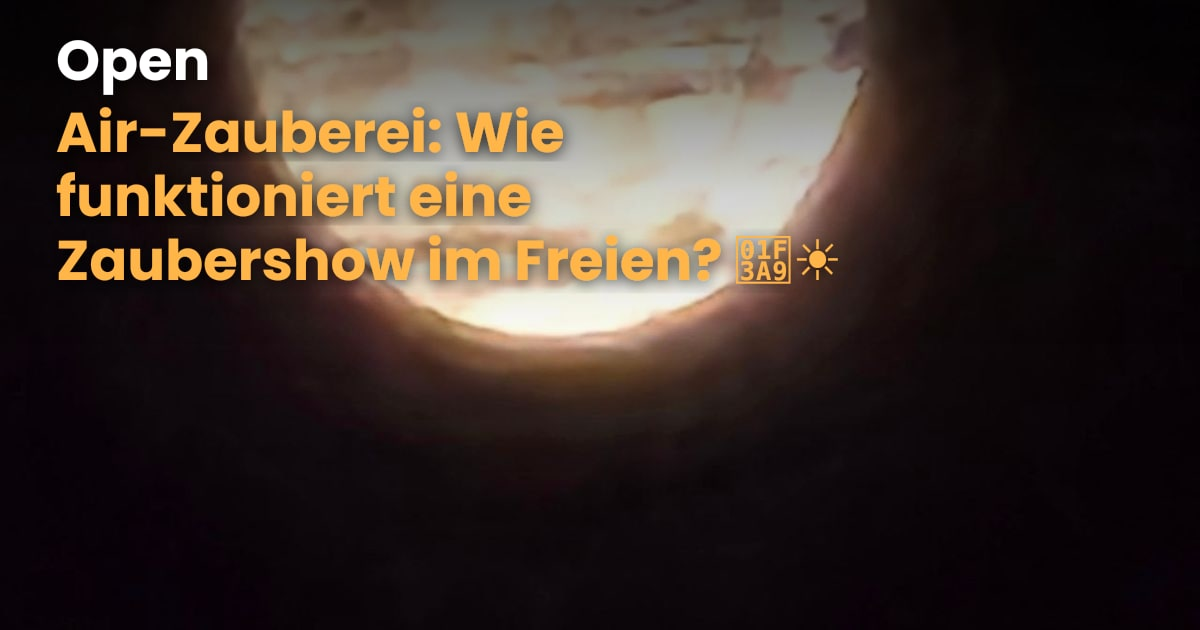
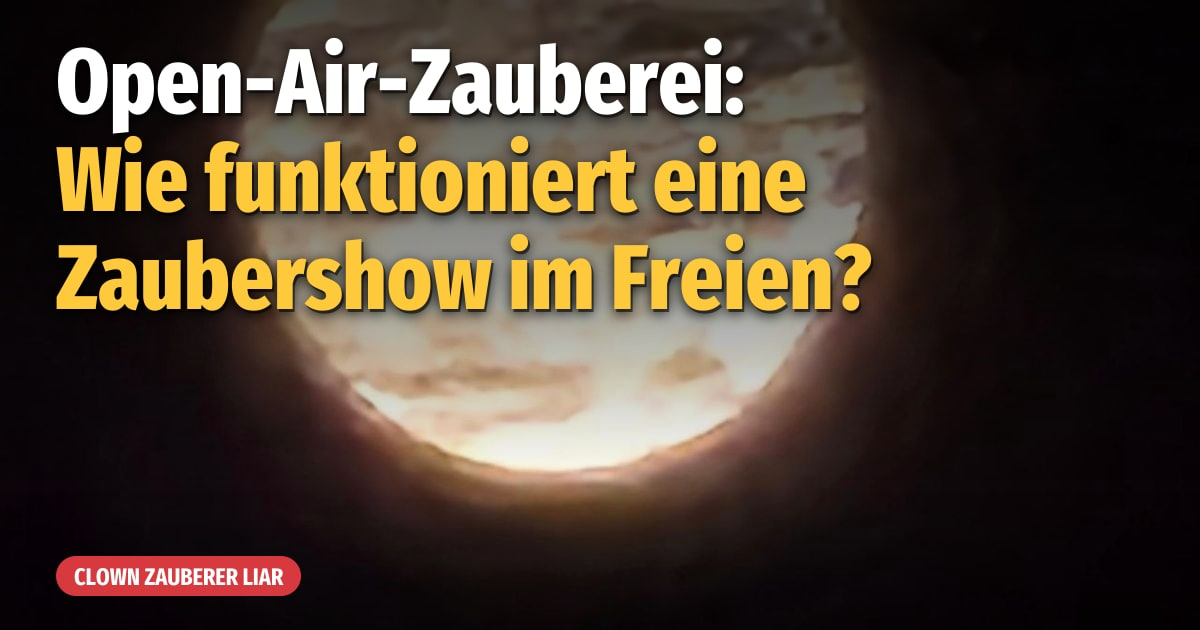
feat(blog): Beitragsbild mit großem Titel (Fira Sans Extra Condensed, weiß + gelb) wie Kita-Vorlage
Overlay-Text wird per opentype.js in Pfade umgewandelt, damit der Netlify-Build
nicht auf Systemschriften zurückfällt; Emojis werden im Bild weggelassen,
Zuschnitt nach Bildinhalt (attention). Bestehende Beitragsbilder neu erzeugt.

Claude-Session: https://claude.ai/code/session_01RKGJmEbfYAStq8Kc3eqBou

diff --git a/site/src/utils/heroOverlay.ts b/site/src/utils/heroOverlay.ts
@@ -2,7 +2,7 @@
  * Hero-Image-Overlay-Generator (build-time, sharp-basiert).
  *
  * Nimmt das Cover-Bild eines Blog-Artikels, croppt auf 1200x630 (OG-Image-Standard),
- * und legt einen SVG-Title-Overlay drauf (weiß + gelber Akzent fuer 2. Teil).
+ * und legt einen Titel-Overlay drauf (Fira Sans Extra Condensed als Pfade, weiß + gelb).
  *
  * Output: public/hero-generated/<slug>.jpg
  * Cache: skip wenn File bereits existiert (Astro-Build-Cache friendly).
@@ -10,6 +10,7 @@
 import sharp from 'sharp';
 import { mkdir, writeFile, access, readFile } from 'node:fs/promises';
 import path from 'node:path';
+import { loadFont, fitTitle, pathData, measure } from './overlayText';
 
 const OUT_DIR = path.resolve('./public/hero-generated');
 const LOCAL_DOMAIN_PREFIX = 'https://liar-entertainer.com/';
@@ -35,93 +36,62 @@ async function loadCover(coverUrl: string): Promise<Buffer> {
   return Buffer.from(await res.arrayBuffer());
 }
 
-function svgEscape(s: string): string {
-  return s
-    .replace(/&/g, '&amp;')
-    .replace(/</g, '&lt;')
-    .replace(/>/g, '&gt;')
-    .replace(/"/g, '&quot;');
-}
+const FONT = () => loadFont(800);
+const BRAND = () => loadFont(700);
 
 /**
- * Splittet Title an : oder — fuer 2-farbiges Overlay (weiß + gelb).
+ * Overlay im Stil der Vorlage „Zaubershow im Kindergarten“: große, schmale
+ * fette Schrift, erster Titelteil weiß, zweiter gelb, weicher Schatten,
+ * dunkler Verlauf oben, kleines rotes LIAR-Schild unten links.
  */
-function splitTitle(title: string): { line1: string; line2: string } {
-  const m = title.match(/^(.+?)\s*([:—–\-])\s*(.+)$/);
-  if (m) {
-    const sep = m[2];
-    const left = m[1] + (sep === ':' ? ':' : '');
-    return { line1: left.trim(), line2: m[3].trim() };
+export function buildSvg(title: string): string {
+  const font = FONT();
+  const { size, lines } = fitTitle(font, title, {
+    maxWidth: W - 2 * PADDING_X,
+    maxLines: 4,
+    maxSize: 92,
+    minSize: 54,
+    colors: ['#ffffff', '#ffc93c'],
+  });
+  const lh = Math.round(size * 1.06);
+  let y = 34 + Math.round(size * 0.86);
+  const paths: string[] = [];
+  for (const l of lines) {
+    paths.push(`<path d="${pathData(font, l.text, PADDING_X, y, size)}" fill="${l.color}"/>`);
+    y += lh;
   }
-  return { line1: title, line2: '' };
-}
+  const textBottom = y - lh + Math.round(size * 0.25);
+  const shadeH = Math.min(H, textBottom + 150);
+  const glyphs = paths.join('');
+  const shadow = glyphs.replace(/fill="#[0-9a-f]+"/gi, 'fill="#000"');
 
-/**
- * Wrapped einen Text in 2-3 Zeilen für SVG-Rendering (max ~22 Zeichen/Zeile bei font-size 60).
- */
-function wrapText(text: string, maxCharsPerLine = 22): string[] {
-  const words = text.split(/\s+/);
-  const lines: string[] = [];
-  let current = '';
-  for (const w of words) {
-    if ((current + ' ' + w).trim().length > maxCharsPerLine && current) {
-      lines.push(current.trim());
-      current = w;
-    } else {
-      current = (current + ' ' + w).trim();
-    }
-  }
-  if (current) lines.push(current);
-  return lines;
-}
-
-function buildSvg(title: string): string {
-  const { line1, line2 } = splitTitle(title);
-
-  const FONT_TOP = 56;
-  const FONT_BOTTOM = 56;
-  const LINE_GAP_TOP = 64;
-  const LINE_GAP_BOTTOM = 64;
-  const COLOR_TOP = '#ffffff';
-  const COLOR_BOTTOM = '#ffb546';
-
-  const topLines = wrapText(line1, 26);
-  const bottomLines = line2 ? wrapText(line2, 26) : [];
-
-  let y = 80;
-  const topTSpans = topLines
-    .map((line, i) => {
-      const yi = y + i * LINE_GAP_TOP;
-      return `<text x="${PADDING_X}" y="${yi}" fill="${COLOR_TOP}" filter="url(#shadow)">${svgEscape(line)}</text>`;
-    })
-    .join('\n');
-  y += topLines.length * LINE_GAP_TOP + 8;
-  const bottomTSpans = bottomLines
-    .map((line, i) => {
-      const yi = y + i * LINE_GAP_BOTTOM;
-      return `<text x="${PADDING_X}" y="${yi}" fill="${COLOR_BOTTOM}" filter="url(#shadow)">${svgEscape(line)}</text>`;
-    })
-    .join('\n');
+  const brandText = 'CLOWN ZAUBERER LIAR';
+  const brandSize = 24;
+  const brand = BRAND();
+  const brandW = Math.round(measure(brand, brandText, brandSize)) + 36;
+  const brandY = H - 34 - 40;
 
   return `<?xml version="1.0" encoding="UTF-8"?>
 <svg xmlns="http://www.w3.org/2000/svg" width="${W}" height="${H}" viewBox="0 0 ${W} ${H}">
   <defs>
-    <filter id="shadow" x="-20%" y="-20%" width="140%" height="140%">
-      <feDropShadow dx="0" dy="3" stdDeviation="8" flood-color="#000" flood-opacity="0.85"/>
-    </filter>
+    <filter id="soft" x="-10%" y="-30%" width="120%" height="160%"><feGaussianBlur stdDeviation="7"/></filter>
     <linearGradient id="darken" x1="0" y1="0" x2="0" y2="1">
-      <stop offset="0%" stop-color="#000" stop-opacity="0.65"/>
-      <stop offset="55%" stop-color="#000" stop-opacity="0.18"/>
+      <stop offset="0%" stop-color="#000" stop-opacity="0.72"/>
+      <stop offset="60%" stop-color="#000" stop-opacity="0.38"/>
+      <stop offset="100%" stop-color="#000" stop-opacity="0"/>
+    </linearGradient>
+    <linearGradient id="foot" x1="0" y1="1" x2="0" y2="0">
+      <stop offset="0%" stop-color="#000" stop-opacity="0.45"/>
       <stop offset="100%" stop-color="#000" stop-opacity="0"/>
     </linearGradient>
   </defs>
-  <rect x="0" y="0" width="${W}" height="${Math.round(H * 0.55)}" fill="url(#darken)"/>
-  <g font-family="Poppins, 'Helvetica Neue', Arial, sans-serif" font-weight="800" font-size="${FONT_TOP}" text-anchor="start">
-    ${topTSpans}
-  </g>
-  <g font-family="Poppins, 'Helvetica Neue', Arial, sans-serif" font-weight="800" font-size="${FONT_BOTTOM}" text-anchor="start">
-    ${bottomTSpans}
-  </g>
+  <rect x="0" y="0" width="${W}" height="${shadeH}" fill="url(#darken)"/>
+  <rect x="0" y="${H - 140}" width="${W}" height="140" fill="url(#foot)"/>
+  <g filter="url(#soft)" opacity="0.9" transform="translate(0 4)">${shadow}</g>
+  <g opacity="0.55" transform="translate(2 3)">${shadow}</g>
+  ${glyphs}
+  <rect x="${PADDING_X}" y="${brandY}" width="${brandW}" height="40" rx="20" fill="#d7393e"/>
+  <path d="${pathData(brand, brandText, PADDING_X + 18, brandY + 29, brandSize)}" fill="#ffffff"/>
 </svg>`;
 }
 
@@ -155,7 +125,7 @@ export async function generateHeroWithOverlay(
     const coverBuf = await loadCover(coverUrl);
 
     const resized = await sharp(coverBuf)
-      .resize(W, H, { fit: 'cover', position: 'center' })
+      .resize(W, H, { fit: 'cover', position: sharp.strategy.attention })
       .toBuffer();
 
     const svg = buildSvg(title);

diff --git a/site/src/utils/overlayText.ts b/site/src/utils/overlayText.ts
@@ -1,0 +1,93 @@
+/**
+ * Text-zu-Pfad für die Bild-Overlays (Beitragsbild, Story).
+ *
+ * Der Build-Server (Netlify) hat keine schönen Schriften installiert – librsvg
+ * würde auf Arial/DejaVu zurückfallen. Deshalb werden die Buchstaben hier mit
+ * opentype.js direkt in SVG-Pfade umgewandelt (Fira Sans Extra Condensed,
+ * OFL, aus @fontsource). Ergebnis sieht überall gleich aus.
+ */
+import { createRequire } from 'node:module';
+import opentype from 'opentype.js';
+
+const require = createRequire(import.meta.url);
+const fontCache = new Map<number, opentype.Font>();
+
+export function loadFont(weight: 700 | 800 | 900 = 800): opentype.Font {
+  const hit = fontCache.get(weight);
+  if (hit) return hit;
+  const file = require.resolve(
+    `@fontsource/fira-sans-extra-condensed/files/fira-sans-extra-condensed-latin-${weight}-normal.woff`,
+  );
+  const font = opentype.loadSync(file);
+  fontCache.set(weight, font);
+  return font;
+}
+
+/** Emojis und Zierzeichen entfernen (würden als Kästchen erscheinen). */
+export function stripEmoji(s: string): string {
+  return s
+    .replace(/[\p{Extended_Pictographic}\u{1F1E6}-\u{1F1FF}\u{FE0F}\u{200D}\u{20E3}]/gu, '')
+    .replace(/\s{2,}/g, ' ')
+    .replace(/\s+([:!?.,])/g, '$1')
+    .trim();
+}
+
+/** Titel an „:“ oder Gedankenstrich in zwei Teile (weiß + gelb) teilen. */
+export function splitTitle(title: string): { line1: string; line2: string } {
+  const m = title.match(/^(.+?)\s*(:|\s[—–-]\s)\s*(.+)$/);
+  if (m) return { line1: (m[1] + (m[2] === ':' ? ':' : '')).trim(), line2: m[3].trim() };
+  const q = title.match(/^(.+?[?!])\s+(.+)$/);
+  if (q) return { line1: q[1].trim(), line2: q[2].trim() };
+  return { line1: title, line2: '' };
+}
+
+export function measure(font: opentype.Font, text: string, size: number): number {
+  return font.getAdvanceWidth(text, size, { kerning: true });
+}
+
+/** Wörter in Zeilen umbrechen, die maxWidth nicht überschreiten. */
+export function wrap(font: opentype.Font, text: string, size: number, maxWidth: number): string[] {
+  const words = text.split(/\s+/).filter(Boolean);
+  const lines: string[] = [];
+  let cur = '';
+  for (const w of words) {
+    const next = cur ? cur + ' ' + w : w;
+    if (cur && measure(font, next, size) > maxWidth) {
+      lines.push(cur);
+      cur = w;
+    } else {
+      cur = next;
+    }
+  }
+  if (cur) lines.push(cur);
+  return lines;
+}
+
+export type Line = { text: string; color: string };
+
+/**
+ * Sucht die größte Schriftgröße (maxSize → minSize), bei der beide Titelteile
+ * in maxLines Zeilen und maxWidth passen.
+ */
+export function fitTitle(
+  font: opentype.Font,
+  title: string,
+  opts: { maxWidth: number; maxLines: number; maxSize: number; minSize: number; colors: [string, string] },
+): { size: number; lines: Line[] } {
+  const clean = stripEmoji(title);
+  const { line1, line2 } = splitTitle(clean);
+  const build = (size: number) => [
+    ...wrap(font, line1, size, opts.maxWidth).map((t) => ({ text: t, color: opts.colors[0] })),
+    ...(line2 ? wrap(font, line2, size, opts.maxWidth) : []).map((t) => ({ text: t, color: opts.colors[1] })),
+  ];
+  for (let size = opts.maxSize; size >= opts.minSize; size -= 2) {
+    const lines = build(size);
+    if (lines.length <= opts.maxLines) return { size, lines };
+  }
+  return { size: opts.minSize, lines: build(opts.minSize).slice(0, opts.maxLines) };
+}
+
+/** SVG-Pfad-Daten für eine Textzeile (Grundlinie y). */
+export function pathData(font: opentype.Font, text: string, x: number, y: number, size: number): string {
+  return font.getPath(text, x, y, size, { kerning: true }).toPathData(1);
+}
